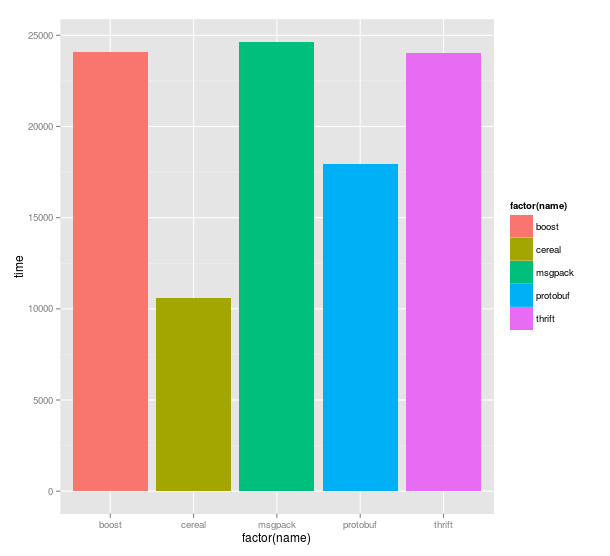
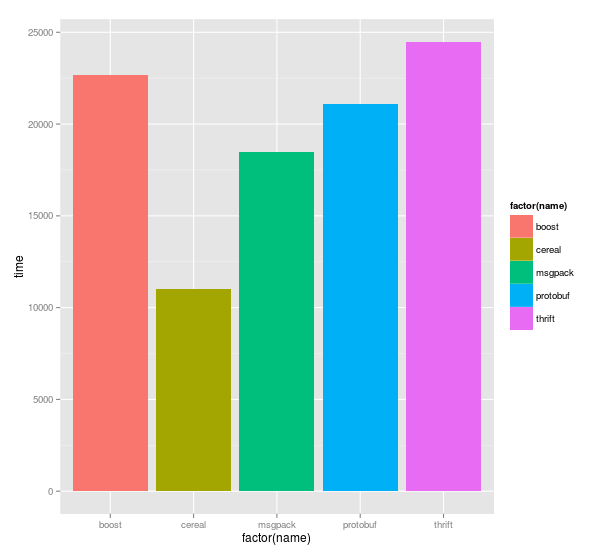
use array of pregenerated random values
In case of vector of integers instead of one value use array
of pregenerated random values.

Tests rerun on Ubuntu 14.04.

diff --git a/data.hpp b/data.hpp
@@ -1,0 +1,113 @@
+#ifndef __DATA_HPP_INCLUDED__
+#define __DATA_HPP_INCLUDED__
+
+#include <vector>
+#include <stdint.h>
+
+const size_t      kStringsCount = 100;
+const std::string kStringValue  = "shgfkghsdfjhgsfjhfgjhfgjsffghgsfdhgsfdfkdjhfioukjhkfdljgdfkgvjafdhasgdfwurtjkghfsdjkfg";
+
+const std::vector<int64_t> kItegers = {
+    34492,6603,44033,8874,47607,38416,20395,29192,38620,36775,
+    35058,20501,39664,64574,11261,35679,16607,26020,39476,16699,
+    21505,20947,53587,24746,45980,18827,137,61753,53340,25406,
+    31601,38267,47951,62073,6738,42983,19246,34384,51818,157,
+    628,40807,41177,49445,60677,23663,22312,20616,28922,20389,
+    28543,48407,63986,7216,61601,6647,7956,47434,29257,28162,
+    25582,29941,55019,60580,47503,6662,35851,23648,61464,43188,
+    23519,37727,36778,62597,27203,31950,23796,62866,54914,4507,
+    7775,39256,56141,36388,58687,42619,30909,47784,44209,38712,
+    39387,37342,36743,17467,21181,36301,3918,10068,16204,50558,
+    33633,6164,111,30859,56608,3320,17784,17842,3623,9258,
+    38514,46795,60113,5658,38229,16986,64707,17010,35380,34811,
+    13179,21861,23487,27513,18226,29112,41034,57128,27903,5484,
+    64117,27389,45096,15321,42035,30690,13359,20005,35723,52158,
+    29700,2895,46899,54388,50709,44269,11880,43493,46848,47523,
+    64268,11074,673,62425,10609,21895,65353,51268,30048,8327,
+    15020,13098,8614,9162,44230,34945,49663,35106,37002,13147,
+    23661,47571,58767,27158,58907,18884,29017,49330,21161,20261,
+    22381,57315,11034,39237,35876,52748,52135,3652,5573,11120,
+    35955,16213,32062,32349,26362,7882,39528,40116,378,3620,
+    23121,39308,39836,55477,12003,34089,54450,23870,1952,58445,
+    38567,53959,32265,10354,57972,31510,264,44462,61043,48989,
+    59504,34995,21591,56088,47298,64849,51629,64161,30990,34752,
+    28699,58836,28310,27686,53360,58218,1382,12294,17239,24411,
+    50012,11485,2732,43364,34433,12782,23748,25393,49417,19316,
+    56304,54887,48832,4473,31997,8192,14593,32054,54448,60709,
+    26749,18928,53574,8031,23681,61479,32115,48730,15694,51143,
+    37232,25059,11327,31269,18035,24905,30575,35576,50878,63566,
+    7213,10140,13121,13487,53861,3487,58552,11636,42412,59239,
+    38086,16738,16197,45757,47844,18248,14385,64858,2785,43969,
+    55873,34166,42623,15441,55015,9219,47800,3659,47139,54900,
+    36120,23551,51858,64110,44719,51319,17756,56240,44986,22746,
+    4944,50980,43252,4881,53006,12039,41658,49870,54730,10213,
+    15296,9139,54583,7345,10260,58177,4126,46487,15644,1323,
+    7767,40475,61334,33814,296,4202,58954,60710,47287,17842,
+    62948,40443,16982,64708,45849,58300,16400,20536,38687,3543,
+    14340,17591,37874,58282,12109,61025,17392,4014,39117,40912,
+    24572,39998,57703,4373,28314,27751,11307,43386,28218,4223,
+    10843,46516,48966,472,54111,55663,33428,52509,3845,5647,
+    3164,36542,16868,5700,44693,1240,12757,22308,12715,9024,
+    11999,42661,57211,50848,14944,59955,59208,41264,20033,23019,
+    6368,43478,48738,14758,41280,24076,64014,52013,24937,46899,
+    59046,52457,22428,27505,43159,17779,26304,23403,52731,32394,
+    11878,6003,29789,43818,59314,20329,58069,13081,61424,27718,
+    29996,21610,3205,14477,37523,35003,36286,62906,44191,31058,
+    53068,826,49309,1705,44214,29908,19433,61948,46663,42710,
+    15534,7807,36492,51075,56749,56906,28946,10316,12099,38561,
+    41455,12573,42613,18640,64463,61175,61712,57225,10181,60007,
+    49094,30559,59477,48603,15646,56068,58417,29704,40969,37530,
+    18769,35771,62828,64452,43719,35415,9679,48100,37102,2014,
+    37901,40564,5231,35279,31257,46681,36297,49026,30314,53309,
+    1772,15145,34777,28019,28568,11004,55343,63726,32528,7595,
+    7288,61637,55329,11723,41610,36885,34524,9144,58781,31381,
+    31576,51243,65449,3883,24602,41301,49332,30071,24731,53076,
+    18835,30948,31196,15758,58879,8007,16244,56729,31879,13324,
+    30246,59487,40604,41656,9922,16564,41094,26477,14418,47704,
+    46087,43602,35364,3468,28154,40737,22138,29789,22868,29611,
+    137,18409,26366,11641,24154,33214,53316,54678,56564,6485,
+    63859,30593,23819,63569,40255,28125,3821,58358,26034,27326,
+    20168,39097,34762,3861,54465,48588,41685,9521,42716,60424,
+    61811,64517,55711,28716,5876,16802,43184,32158,12460,33802,
+    43630,57941,65454,57092,23134,1757,42449,56716,47808,31003,
+    52358,59607,60476,14763,48276,61767,52541,15148,59109,60993,
+    8607,56930,13760,52036,4132,61711,4915,59651,11062,750,
+    32426,26748,61727,1006,38136,15828,5934,5901,37067,46827,
+    11884,17393,6322,58799,45596,60370,61443,46045,64246,48987,
+    2765,29446,10923,21875,48410,39056,42986,5562,17903,63126,
+    57165,16031,63190,41857,20363,25337,60583,34165,12117,31144,
+    15233,32201,50866,19101,22325,45683,41215,28885,42919,56843,
+    26045,18702,32409,4802,11310,50435,18268,34070,56862,48307,
+    27179,35722,23159,5270,62523,55928,37842,1469,52744,63149,
+    61265,28590,10318,36834,31225,55332,26967,34844,53898,13550,
+    45088,18743,10663,64974,29124,42159,34634,3895,22055,5649,
+    53895,30439,38264,18351,980,62663,5479,32694,2392,14157,
+    34319,34875,42709,52995,35927,63947,62191,63907,24903,15705,
+    40955,50782,64934,62454,19404,53365,25945,57405,41221,12921,
+    34291,15944,32298,4083,30010,44032,41316,28130,31221,18940,
+    44513,5513,24837,54233,9899,39933,29068,23247,47440,52698,
+    63372,8945,51493,57120,52514,20487,60260,59814,1484,24789,
+    33866,45112,14526,60221,50973,25125,5991,48481,33017,59821,
+    42654,51735,63141,55833,14490,35443,44171,62286,36815,23160,
+    32977,31387,20525,49812,1295,43744,18217,34480,58203,61045,
+    25528,48777,55709,47339,37999,49039,45022,35884,33880,44348,
+    1526,6778,14068,16467,699,3820,2828,55811,62784,22958,
+    21898,18678,15946,42931,47002,933,19312,32862,25994,6791,
+    58533,15443,21048,11212,28899,9618,9053,61352,45516,23407,
+    35256,58880,36406,36544,6981,30273,65302,37871,10065,19591,
+    6464,15831,40594,62620,61300,39313,57367,56539,21501,61070,
+    13632,27764,60371,47978,38670,33853,31205,49260,56140,18928,
+    27245,47480,45291,64421,19547,29616,38608,45751,62137,18789,
+    59923,25449,57664,9889,18109,26588,20278,51672,21209,23202,
+    29419,55090,35147,32818,15270,49125,30648,64720,29814,57758,
+    25352,11149,3703,16912,60520,34110,42527,1438,36294,17877,
+    52345,28849,16183,34088,37493,39997,54697,970,14983,60268,
+    19566,32131,54265,10366,49778,1520,43174,34006,64401,58034,
+    35005,27621,65337,58940,9671,6424,61857,22542,30725,61777,
+    12539,29197,24034,28450,2769,41642,50160,47847,18152,51053,
+    47843,61836,25260,36400,22250,17010,29460,51714,42262,28230,
+    54088,34531,17424,36588,53806,32847,11804,28344,16504,38941,
+    23441,53703,31551,61990,59981,19355,32417,16169,64680,1600
+};
+
+#endif

diff --git a/test.cpp b/test.cpp
@@ -15,17 +15,11 @@
 #include "thrift/gen-cpp/test_constants.h"
 
 #include "protobuf/test.pb.h"
-
 #include "boost/record.hpp"
-
 #include "msgpack/record.hpp"
-
 #include "cereal/record.hpp"
 
-const size_t      kItegersCount = 1000;
-const size_t      kStringsCount = 100;
-const int64_t     kIntegerValue = 26354;
-const std::string kStringValue  = "shgfkghsdfjhgsfjhfgjhfgjsffghgsfdhgsfdfkdjhfioukjhkfdljgdfkgvjafdhasgdfwurtjkghfsdjkfg";
+#include "data.hpp"
 
 void
 thrift_serialization_test(size_t iterations)
@@ -40,8 +34,8 @@ thrift_serialization_test(size_t iterations)
 
     Record r1;
 
-    for (size_t i = 0; i < kItegersCount; i++) {
-        r1.ids.push_back(kIntegerValue);
+    for (size_t i = 0; i < kItegers.size(); i++) {
+        r1.ids.push_back(kItegers[i]);
     }
 
     for (size_t i = 0; i < kStringsCount; i++) {
@@ -89,8 +83,8 @@ protobuf_serialization_test(size_t iterations)
 
     Record r1;
 
-    for (size_t i = 0; i < kItegersCount; i++) {
-        r1.add_ids(kIntegerValue);
+    for (size_t i = 0; i < kItegers.size(); i++) {
+        r1.add_ids(kItegers[i]);
     }
 
     for (size_t i = 0; i < kStringsCount; i++) {
@@ -129,8 +123,8 @@ boost_serialization_test(size_t iterations)
 
     Record r1, r2;
 
-    for (size_t i = 0; i < kItegersCount; i++) {
-        r1.ids.push_back(kIntegerValue);
+    for (size_t i = 0; i < kItegers.size(); i++) {
+        r1.ids.push_back(kItegers[i]);
     }
 
     for (size_t i = 0; i < kStringsCount; i++) {
@@ -167,8 +161,8 @@ msgpack_serialization_test(size_t iterations)
 
     Record r1, r2;
 
-    for (size_t i = 0; i < kItegersCount; i++) {
-        r1.ids.push_back(kIntegerValue);
+    for (size_t i = 0; i < kItegers.size(); i++) {
+        r1.ids.push_back(kItegers[i]);
     }
 
     for (size_t i = 0; i < kStringsCount; i++) {
@@ -216,8 +210,8 @@ cereal_serialization_test(size_t iterations)
 
     Record r1, r2;
 
-    for (size_t i = 0; i < kItegersCount; i++) {
-        r1.ids.push_back(kIntegerValue);
+    for (size_t i = 0; i < kItegers.size(); i++) {
+        r1.ids.push_back(kItegers[i]);
     }
 
     for (size_t i = 0; i < kStringsCount; i++) {

diff --git a/README.md b/README.md
@@ -3,7 +3,7 @@
 #### Build
 This project does not have any external library dependencies. All (boost, thrift etc.) needed libraries are downloaded
 and built automatically, but you need enough free disk space to build all components. To build this project you need a compiler that supports
-C++11 features. Project was tested with GCC 4.7 (ubuntu 13.04).
+C++11 features. Project was tested with GCC 4.8.2 (Ubuntu 14.04).
 
 ```
 $ git clone https://github.com/thekvs/cpp-serializers.git
@@ -29,8 +29,8 @@ $ ./test 100000 protobuf cereal
 
 #### Results
 
-Following results were obtained running 1000000 serialize-deserialize operations 20 times and then averaging results
-on a typical desktop computer with Intel Core i5 processor running Ubuntu 13.04. Exact versions of libraries used are:
+Following results were obtained running 1000000 serialize-deserialize operations 50 times and then averaging results
+on a typical desktop computer with Intel Core i5 processor running Ubuntu 14.04. Exact versions of libraries used are:
 
 * boost 1.55.0
 * thrift 0.9.1
@@ -38,13 +38,13 @@ on a typical desktop computer with Intel Core i5 processor running Ubuntu 13.04.
 * protobuf 2.5.0
 * cereal 0.9.1
 
-| serializer | object's size | total time |
-| ---------- | ------------- | ---------- |
-| thrift     | 17017         | 24047      |
-| protobuf   | 12800         | 17952      |
-| boost      | 17470         | 24100      |
-| msgpack    | 11907         | 24653      |
-| cereal     | 17416         | 10613      |
+| serializer | object's size | avg. total time |
+| ---------- | ------------- | --------------- |
+| thrift     | 17017         | 24490           |
+| protobuf   | 12571         | 21110           |
+| boost      | 17470         | 22700           |
+| msgpack    | 11902         | 18470           |
+| cereal     | 17416         | 11020           |
 
 Size mesuared in bytes, time mesuared in milliseconds.
 
